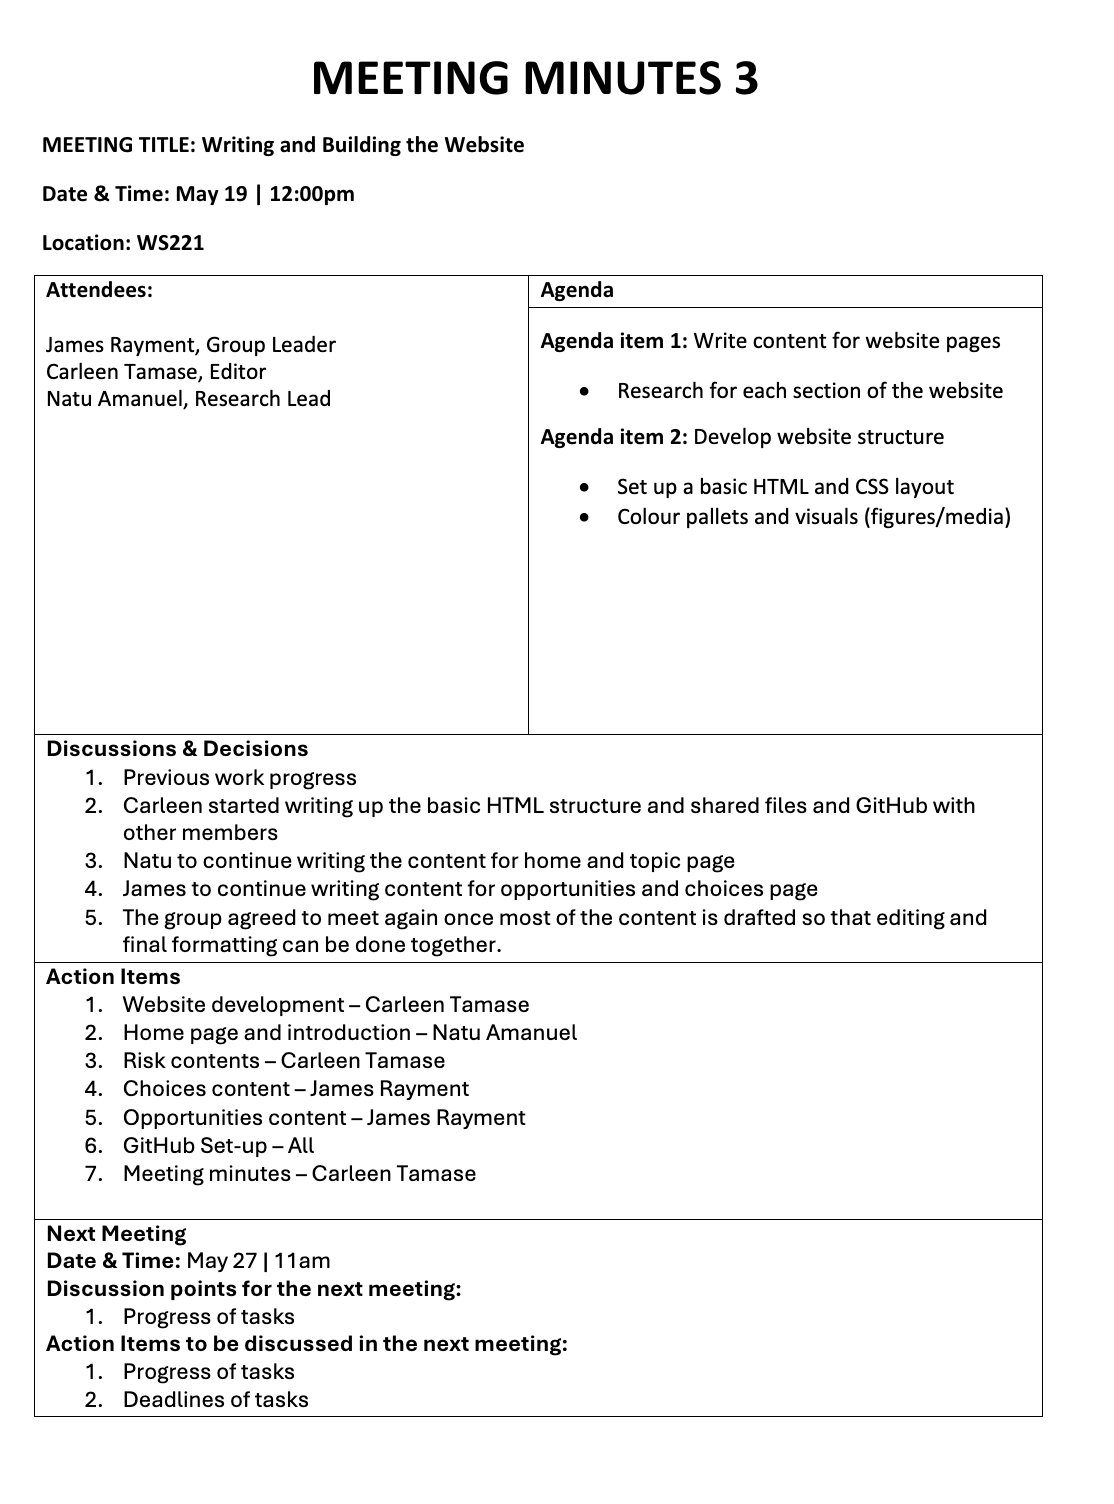
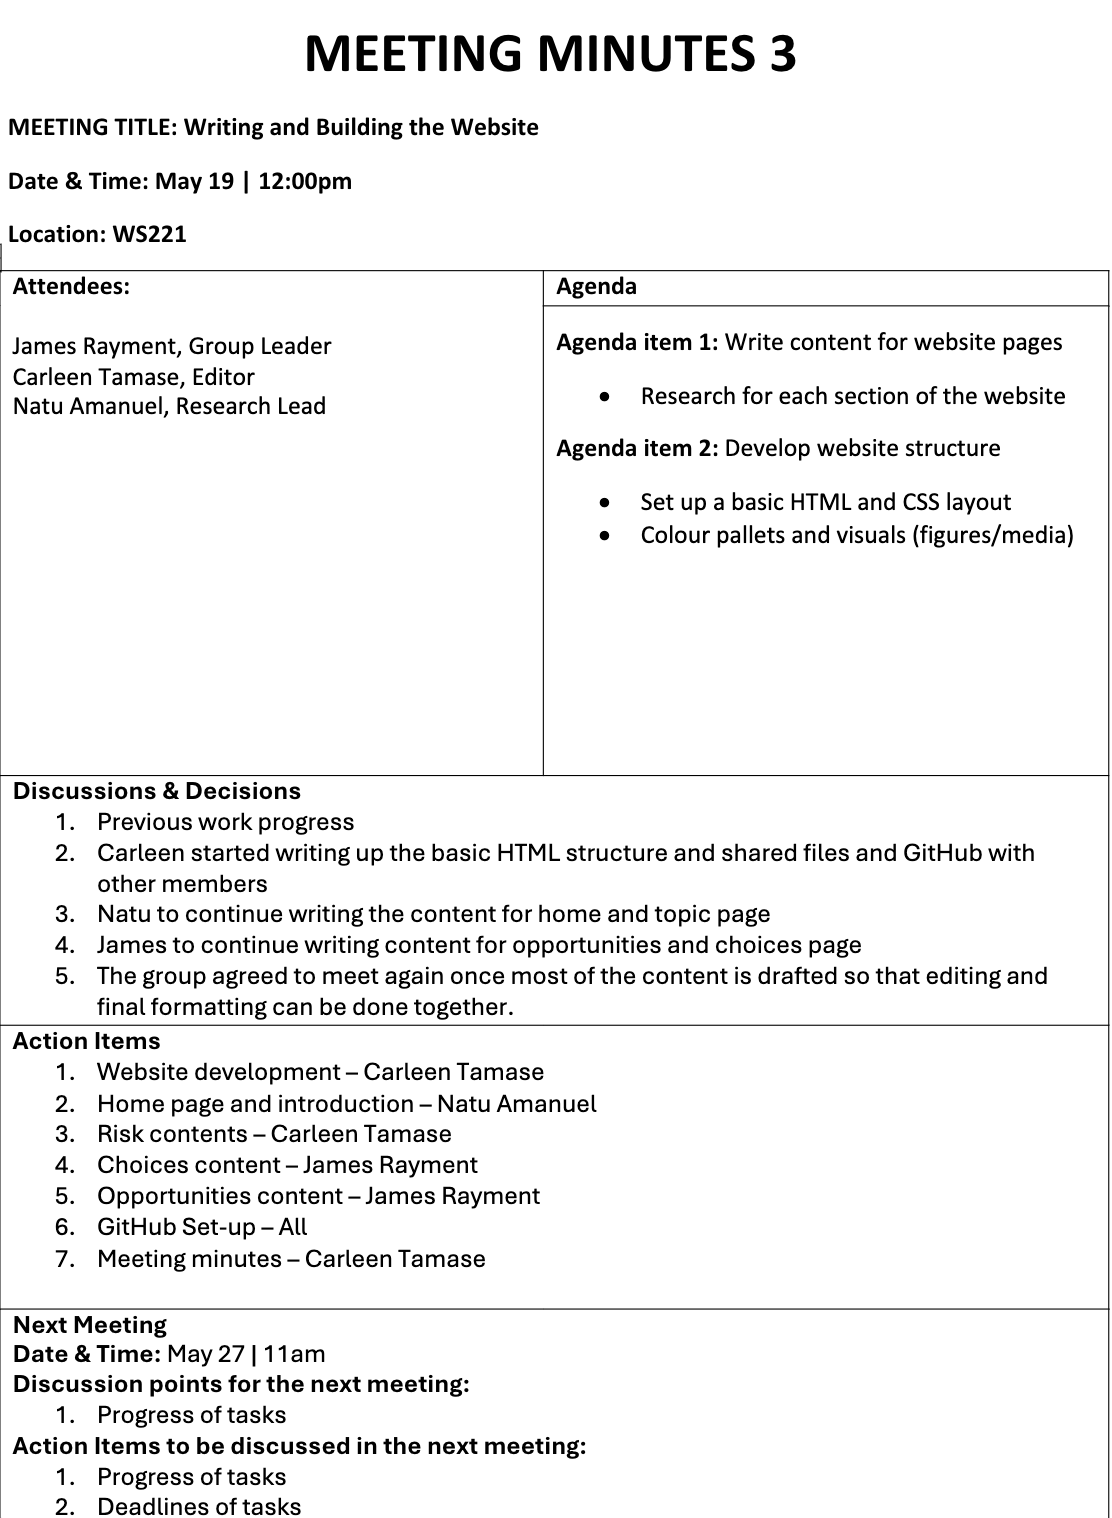
meeting minutes

diff --git a/misc/meetings.html b/misc/meetings.html
@@ -25,7 +25,27 @@
 
 <hr/>
 
-<li><a href="https://autuni-my.sharepoint.com/:w:/r/personal/dkk4311_autuni_ac_nz/Documents/COMP501%20-%20Meeting%20Minutes.docx?d=w433c619ff17248f0a2142871b5abeb46&csf=1&web=1&e=TYh9YI">Meeting Minutes</a>
+<img src="../images/Meeting1.png" 
+        alt="Meeting 1"
+        style="width: 25%; height: auto; object-fit: cover; border:10px solid #c8d8e0;
+" >
+
+<img src="../images/Meeting2.png" 
+        alt="Meeting 1"
+        style="width: 25%; height: auto; object-fit: cover; border:10px solid #c8d8e0;
+" >
+<img src="../images/Meeting3.png" 
+        alt="Meeting 1"
+        style="width: 25%; height: auto; object-fit: cover; border:10px solid #c8d8e0;
+" >
+<img src="../images/Meeting4.png" 
+        alt="Meeting 1"
+        style="width: 25%; height: auto; object-fit: cover; border:10px solid #c8d8e0;
+" >
+<img src="../images/Meeting5.png" 
+        alt="Meeting 1"
+        style="width: 25%; height: auto; object-fit: cover; border:10px solid #c8d8e0;
+" >
 
 
 <p><h6><em>Note: the preferred option will be to replace these links in your site with equivalent links to your repository e.g. Canvas discussion Board pages or Dropbox links</h6></em></p>

diff --git a/styles/mystyles.css b/styles/mystyles.css
@@ -60,7 +60,7 @@ img {
 
 }
 
-    .section-box {
+.section-box {
       background-color: #ffffff;
       border: 1px solid #ccc;
       padding: 20px;
@@ -68,15 +68,15 @@ img {
       border-radius: 8px;
       max-width: 1000px;
       box-shadow: 0 2px 4px rgba(0, 0, 0, 0.1);
-    }
+}
 
-    .video-container {
+.video-container {
       display: flex;
       justify-content: center;
       margin: 30px 0;
-    }
+}
 
-    blockquote {
+blockquote {
       background-color: #f1f8ff;
       padding: 15px;
       border-left: 5px solid #0077cc;
@@ -84,7 +84,12 @@ img {
       max-width: 900px;
       font-style: italic;
       color: #333;
-    }
+}
 
+.meeting {
+  border: #0077cc;
+  width: 10px;
+  height: auto;
+}
 
 

diff --git a/misc/process.html b/misc/process.html
@@ -10,7 +10,6 @@
 <ul class="navbar">
   <li><a href="../index.html">Home page</a>
   <li><a href="team-formation.html">Team Formation</a>
-   <li><a href="proposal.html">Topic Proposal</a>
 	<li><a href="meetings.html">Meeting Minutes</a>
 	<li><a href="portfolio.html">Project Portfolio</a>
 		<li><a href="rubric.html">Assessment Rubric</a>
